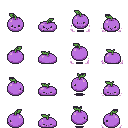
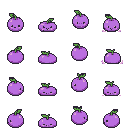
fix: Gitinho sem sombra desenhada e pulando mais devagar; imagens com ?v= do build pra não ficarem presas no cache

diff --git a/src/game/VillageScene.ts b/src/game/VillageScene.ts
@@ -5,7 +5,9 @@ import { LOTS, MAP_H, MAP_W, ROAD, T, autotile, dirtGrid } from "./map.ts";
 type Dir = "down" | "up" | "left" | "right";
 const DIR_ROW: Record<Dir, number> = { down: 0, up: 1, left: 2, right: 3 }; // linha na folha 4x4 de caminhada
 const STEP_MS = 180;
-const SPRITES = "assets/sprites"; // arte própria, já na paleta
+const SPRITES = "assets/sprites"; // arte própria
+// ?v= muda a cada build: o navegador baixa a arte nova em vez de mostrar a do cache
+const png = (name: string) => `${SPRITES}/${name}.png?v=${import.meta.env.VITE_BUILD ?? "dev"}`;
 
 const IMAGES = [
   "arvore-grande", "arvore-florida", "casa-pedra-rosa", "casa-madeira", "casa-padaria", "torre-relogio",
@@ -30,11 +32,11 @@ export class VillageScene extends Phaser.Scene {
   constructor() { super("village"); }
 
   preload() {
-    this.load.image("ground", `${SPRITES}/ground.png`); // gerado por art/tools/build_ground.py
-    for (const name of IMAGES) this.load.image(name, `${SPRITES}/${name}.png`);
-    this.load.spritesheet("helena", `${SPRITES}/helena-andando.png`, { frameWidth: 32, frameHeight: 32 });
-    this.load.spritesheet("professora", `${SPRITES}/professora-andando.png`, { frameWidth: 32, frameHeight: 32 });
-    this.load.spritesheet("gitinho", `${SPRITES}/gitinho-andando.png`, { frameWidth: 32, frameHeight: 32 });
+    this.load.image("ground", png("ground")); // gerado por art/tools/build_ground.py
+    for (const name of IMAGES) this.load.image(name, png(name));
+    this.load.spritesheet("helena", png("helena-andando"), { frameWidth: 32, frameHeight: 32 });
+    this.load.spritesheet("professora", png("professora-andando"), { frameWidth: 32, frameHeight: 32 });
+    this.load.spritesheet("gitinho", png("gitinho-andando"), { frameWidth: 32, frameHeight: 32 });
   }
 
   create() {
@@ -94,7 +96,7 @@ export class VillageScene extends Phaser.Scene {
     for (const [dir, row] of Object.entries(DIR_ROW)) {
       this.anims.create({ key: `walk-${dir}`, frames: this.anims.generateFrameNumbers("helena", { frames: [0, 1, 2, 3].map(c => row * 4 + c) }), frameRate: 8, repeat: -1 });
       // Gitinho pula o tempo todo, como seguidor de Pokémon: parado, agacha, no ar, aterrissa
-      this.anims.create({ key: `hop-${dir}`, frames: this.anims.generateFrameNumbers("gitinho", { frames: [0, 1, 2, 3].map(c => row * 4 + c) }), frameRate: 6, repeat: -1 });
+      this.anims.create({ key: `hop-${dir}`, frames: this.anims.generateFrameNumbers("gitinho", { frames: [0, 1, 2, 3].map(c => row * 4 + c) }), frameRate: 4, repeat: -1 }); // 1 pulo por segundo
     }
     this.player = this.add.sprite(this.tile.x * T + 8, (this.tile.y + 1) * T, "helena", DIR_ROW.up * 4).setOrigin(0.5, 1);
     this.buddy = this.add.sprite(this.tile.x * T + 8, (this.tile.y + 2) * T, "gitinho").setOrigin(0.5, 1).play("hop-up");

diff --git a/vite.config.ts b/vite.config.ts
@@ -1,6 +1,9 @@
 import { fileURLToPath } from "node:url";
 import { defineConfig } from "vite";
 
+// carimbo do build, usado como ?v= nas imagens (src/game/VillageScene.ts)
+process.env.VITE_BUILD ??= Date.now().toString(36);
+
 export default defineConfig({
   base: "./", // caminhos relativos: funciona em lenaschwantes.github.io/commitia/ e em qualquer subpasta
   // ponytail: o phaser.esm.js (8,8 MB) vira 50 MB com source map no dev server e estoura a memória;

diff --git a/art/tools/clean_sheet.py b/art/tools/clean_sheet.py
@@ -91,7 +91,32 @@ def defringe(img):
     return img
 
 
-def sheet(img: Image.Image, p=10.24, mirror_right=False, swap_sides=False, side_col3=False) -> Image.Image:
+def main_only(cell: Image.Image) -> Image.Image:
+    """Mantém só a maior peça ligada do quadro: some com sombra e poeira que a IA desenha soltas
+    (o jogo já desenha sombra própria). Chamado depois de alinhar, pra o pulo continuar no ar."""
+    px = cell.load(); W, H = cell.size
+    seen, best = set(), []
+    for y in range(H):
+        for x in range(W):
+            if px[x, y][3] and (x, y) not in seen:
+                comp, stack = [], [(x, y)]
+                seen.add((x, y))
+                while stack:
+                    cx, cy = stack.pop(); comp.append((cx, cy))
+                    for dx in (-1, 0, 1):
+                        for dy in (-1, 0, 1):
+                            nx, ny = cx + dx, cy + dy
+                            if 0 <= nx < W and 0 <= ny < H and px[nx, ny][3] and (nx, ny) not in seen:
+                                seen.add((nx, ny)); stack.append((nx, ny))
+                best = max(best, comp, key=len)
+    keep = set(best)
+    out = Image.new("RGBA", cell.size)
+    for x, y in keep:
+        out.putpixel((x, y), px[x, y])
+    return out
+
+
+def sheet(img: Image.Image, p=10.24, mirror_right=False, swap_sides=False, side_col3=False, main=False) -> Image.Image:
     img = img.convert("RGB")
     hx, hy = edges(img)
     ox, oy = phase(hx, p), phase(hy, p)
@@ -105,7 +130,7 @@ def sheet(img: Image.Image, p=10.24, mirror_right=False, swap_sides=False, side_
             x0 = round((c * cw - (ox if ox <= p / 2 else ox - p)) / p); y0 = round((r * cw - (oy if oy <= p / 2 else oy - p)) / p)
             cell = full.crop((x0, y0, x0 + round(cw / p), y0 + round(cw / p)))
             big = Image.new("RGBA", (32, 32)); big.paste(cell, (0, 0))
-            cells[r][c] = align(big)
+            cells[r][c] = main_only(align(big)) if main else align(big)
     if side_col3:  # a IA às vezes desenha o 3º quadro da lateral de frente: repete o quadro parado
         cells[2][2] = cells[2][0]
     if mirror_right:  # a IA às vezes repete o mesmo lado nas duas linhas laterais
@@ -140,12 +165,13 @@ if __name__ == "__main__":
     ap.add_argument("--mirror-right", action="store_true", help="linha da direita = espelho da esquerda")
     ap.add_argument("--swap-sides", action="store_true", help="troca as linhas de esquerda e direita")
     ap.add_argument("--side-col3", action="store_true", help="3º quadro da lateral = quadro parado")
+    ap.add_argument("--main-only", action="store_true", help="tira sombra/poeira soltas desenhadas pela IA")
     ap.add_argument("--selftest", action="store_true")
     a = ap.parse_args()
     if a.selftest:
         selftest()
     else:
-        out = sheet(Image.open(ROOT / f"art/inbox/{a.nome}.jpeg"), mirror_right=a.mirror_right, swap_sides=a.swap_sides, side_col3=a.side_col3)
+        out = sheet(Image.open(ROOT / f"art/inbox/{a.nome}.jpeg"), mirror_right=a.mirror_right, swap_sides=a.swap_sides, side_col3=a.side_col3, main=a.main_only)
         for d in ("art/clean", "public/assets/sprites"):
             out.save(ROOT / d / f"{a.nome}.png")
         print(f"{a.nome}: ok")
